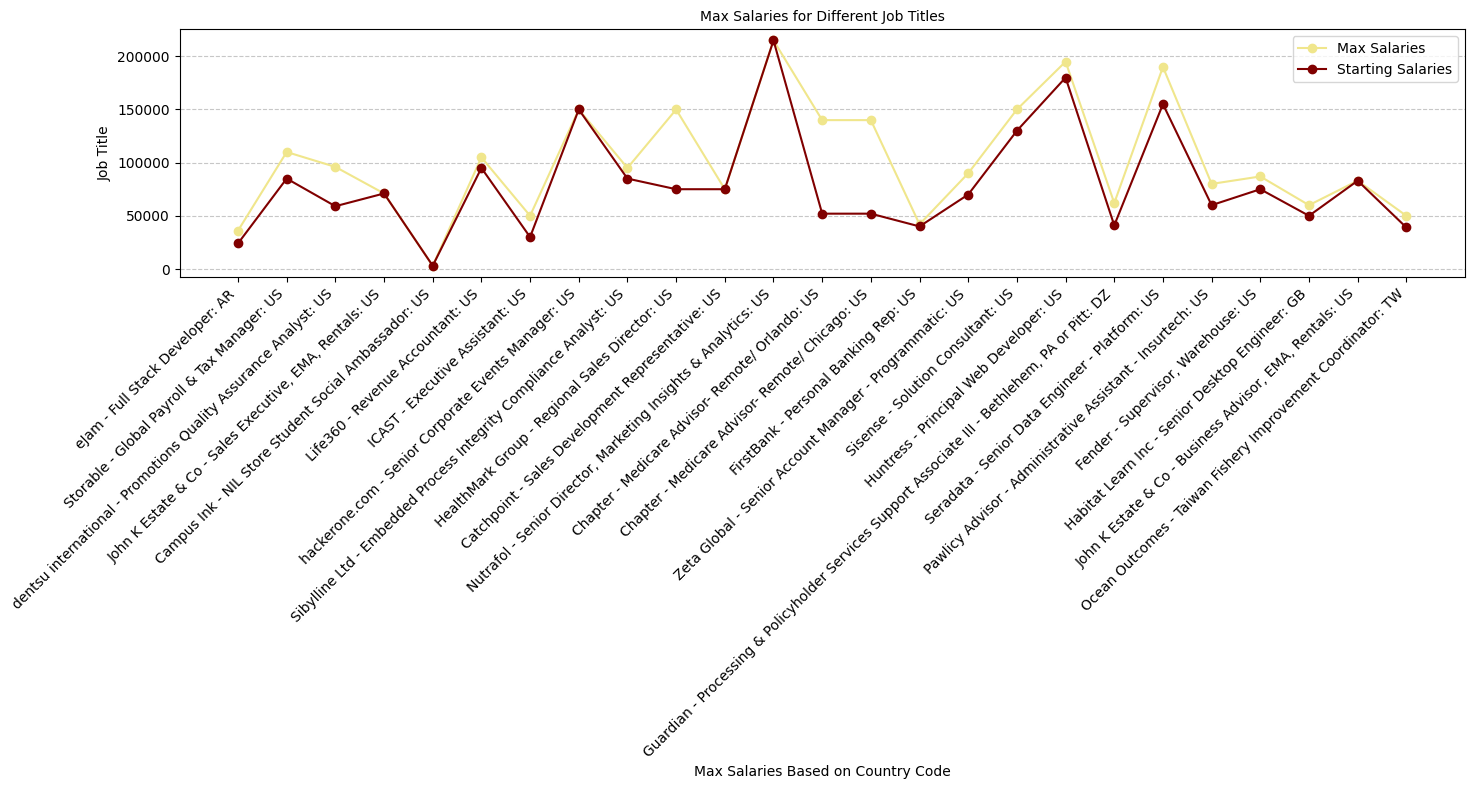
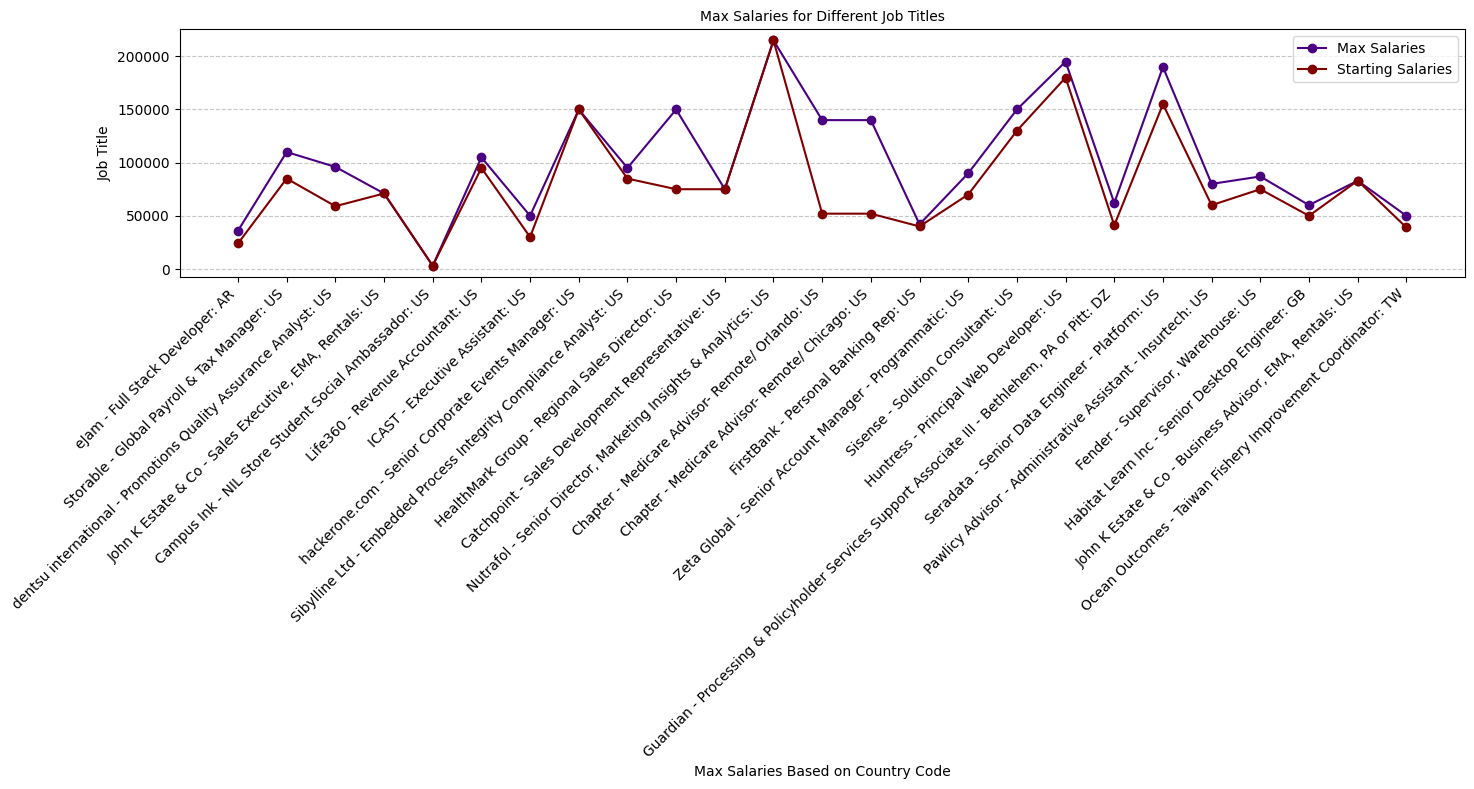
Start creating API get method

diff --git a/api/app.py b/api/app.py
@@ -1,7 +1,12 @@
+from _typeshed import Incomplete
+import io
 from country.codes import country_codes
 from currency.codes import currency_codes
 from database.database import db_connection
 from .api_methods.post import post
+from .api_methods.get import create_salary_plot
+
+# from data_analysis.matplotlib_visuals.plots import line_plot, bar_plot, barh_plot
 from flask import Flask, request, jsonify
 
 app = Flask(__name__)
@@ -12,19 +17,39 @@ def save_data():
     data = request.json
 
     try:
+        # Validate data format
+        # Ensure inserted locations and country codes are within country_codes and currency_codes
         if (
             request.is_json
             and data.get("location").casefold() in country_codes
             and data.get("currency").casefold() in currency_codes
         ):
+            # Ensure salaries are integers
             data["starting_salary"] = int(data.get("starting_salary"))
             data["max_salary"] = int(data.get("max_salary"))
-            # post(db_connection, data)
+
+            # Insert data into the database
+            post(db_connection, data)
             return jsonify({"message": "Data saved successfully"}), 201
         else:
             return jsonify({"error": f"Invalid data provided"}), 400
     except (AttributeError, ValueError, KeyError) as e:
         return jsonify({"error": f"Invalid data provided: {e}"}), 400
+
+
+# NOTE: Incomplete
+@app.route("/job_salaries", methods=["GET"])
+def job_salaries():
+    # Generate and save the plot to a bytes buffer
+    buffer = io.BytesIO()
+    print(buffer)
+    # line_plot(f"{buffer}.png")
+    # buffer.seek(0)
+
+    # print(buffer)
+
+    # Send the buffer as a response
+    # return send_file(buffer, mimetype="image/png")
 
 
 if __name__ == "__main__":

diff --git a/api/api_methods/get.py b/api/api_methods/get.py
@@ -1,0 +1,46 @@
+import random
+from database.database import db_connection
+from data_analysis.matplotlib_visuals.colors import colors
+from psycopg2.extras import RealDictCursor
+import matplotlib.pyplot as plt
+
+print(db_connection)
+
+
+# NOTE: Incomplete
+def request_latest_data(db_connection):
+    conn = db_connection
+    cursor = conn.cursor(cursor_factory=RealDictCursor)
+    query = """
+    SELECT * FROM jobs"""
+    cursor.execute(query)
+    conn.commit()
+    cursor.close()
+    conn.close()
+
+
+print(request_latest_data(db_connection))
+# def create_salary_plot():
+#     # fetch_latest_data is a hypothetical function
+#     df = request_latest_data(db_connection)
+#     fig, ax = plt.subplots()
+
+#     ax.plot(
+#         df["company_names"] + " - " + df["job_titles"] + ": " + df["locations"],
+#         df["max_salaries"],
+#         label="Max Salaries",
+#         color=random.choice(colors),
+#         marker="o",
+#         linestyle="-",
+#     )
+
+#     ax.plot(
+#         df["company_names"] + " - " + df["job_titles"] + ": " + df["locations"],
+#         df["starting_salaries"],
+#         label="Starting Salaries",
+#         color=random.choice(colors),
+#         marker="o",
+#         linestyle="-",
+#     )
+
+#     return fig
